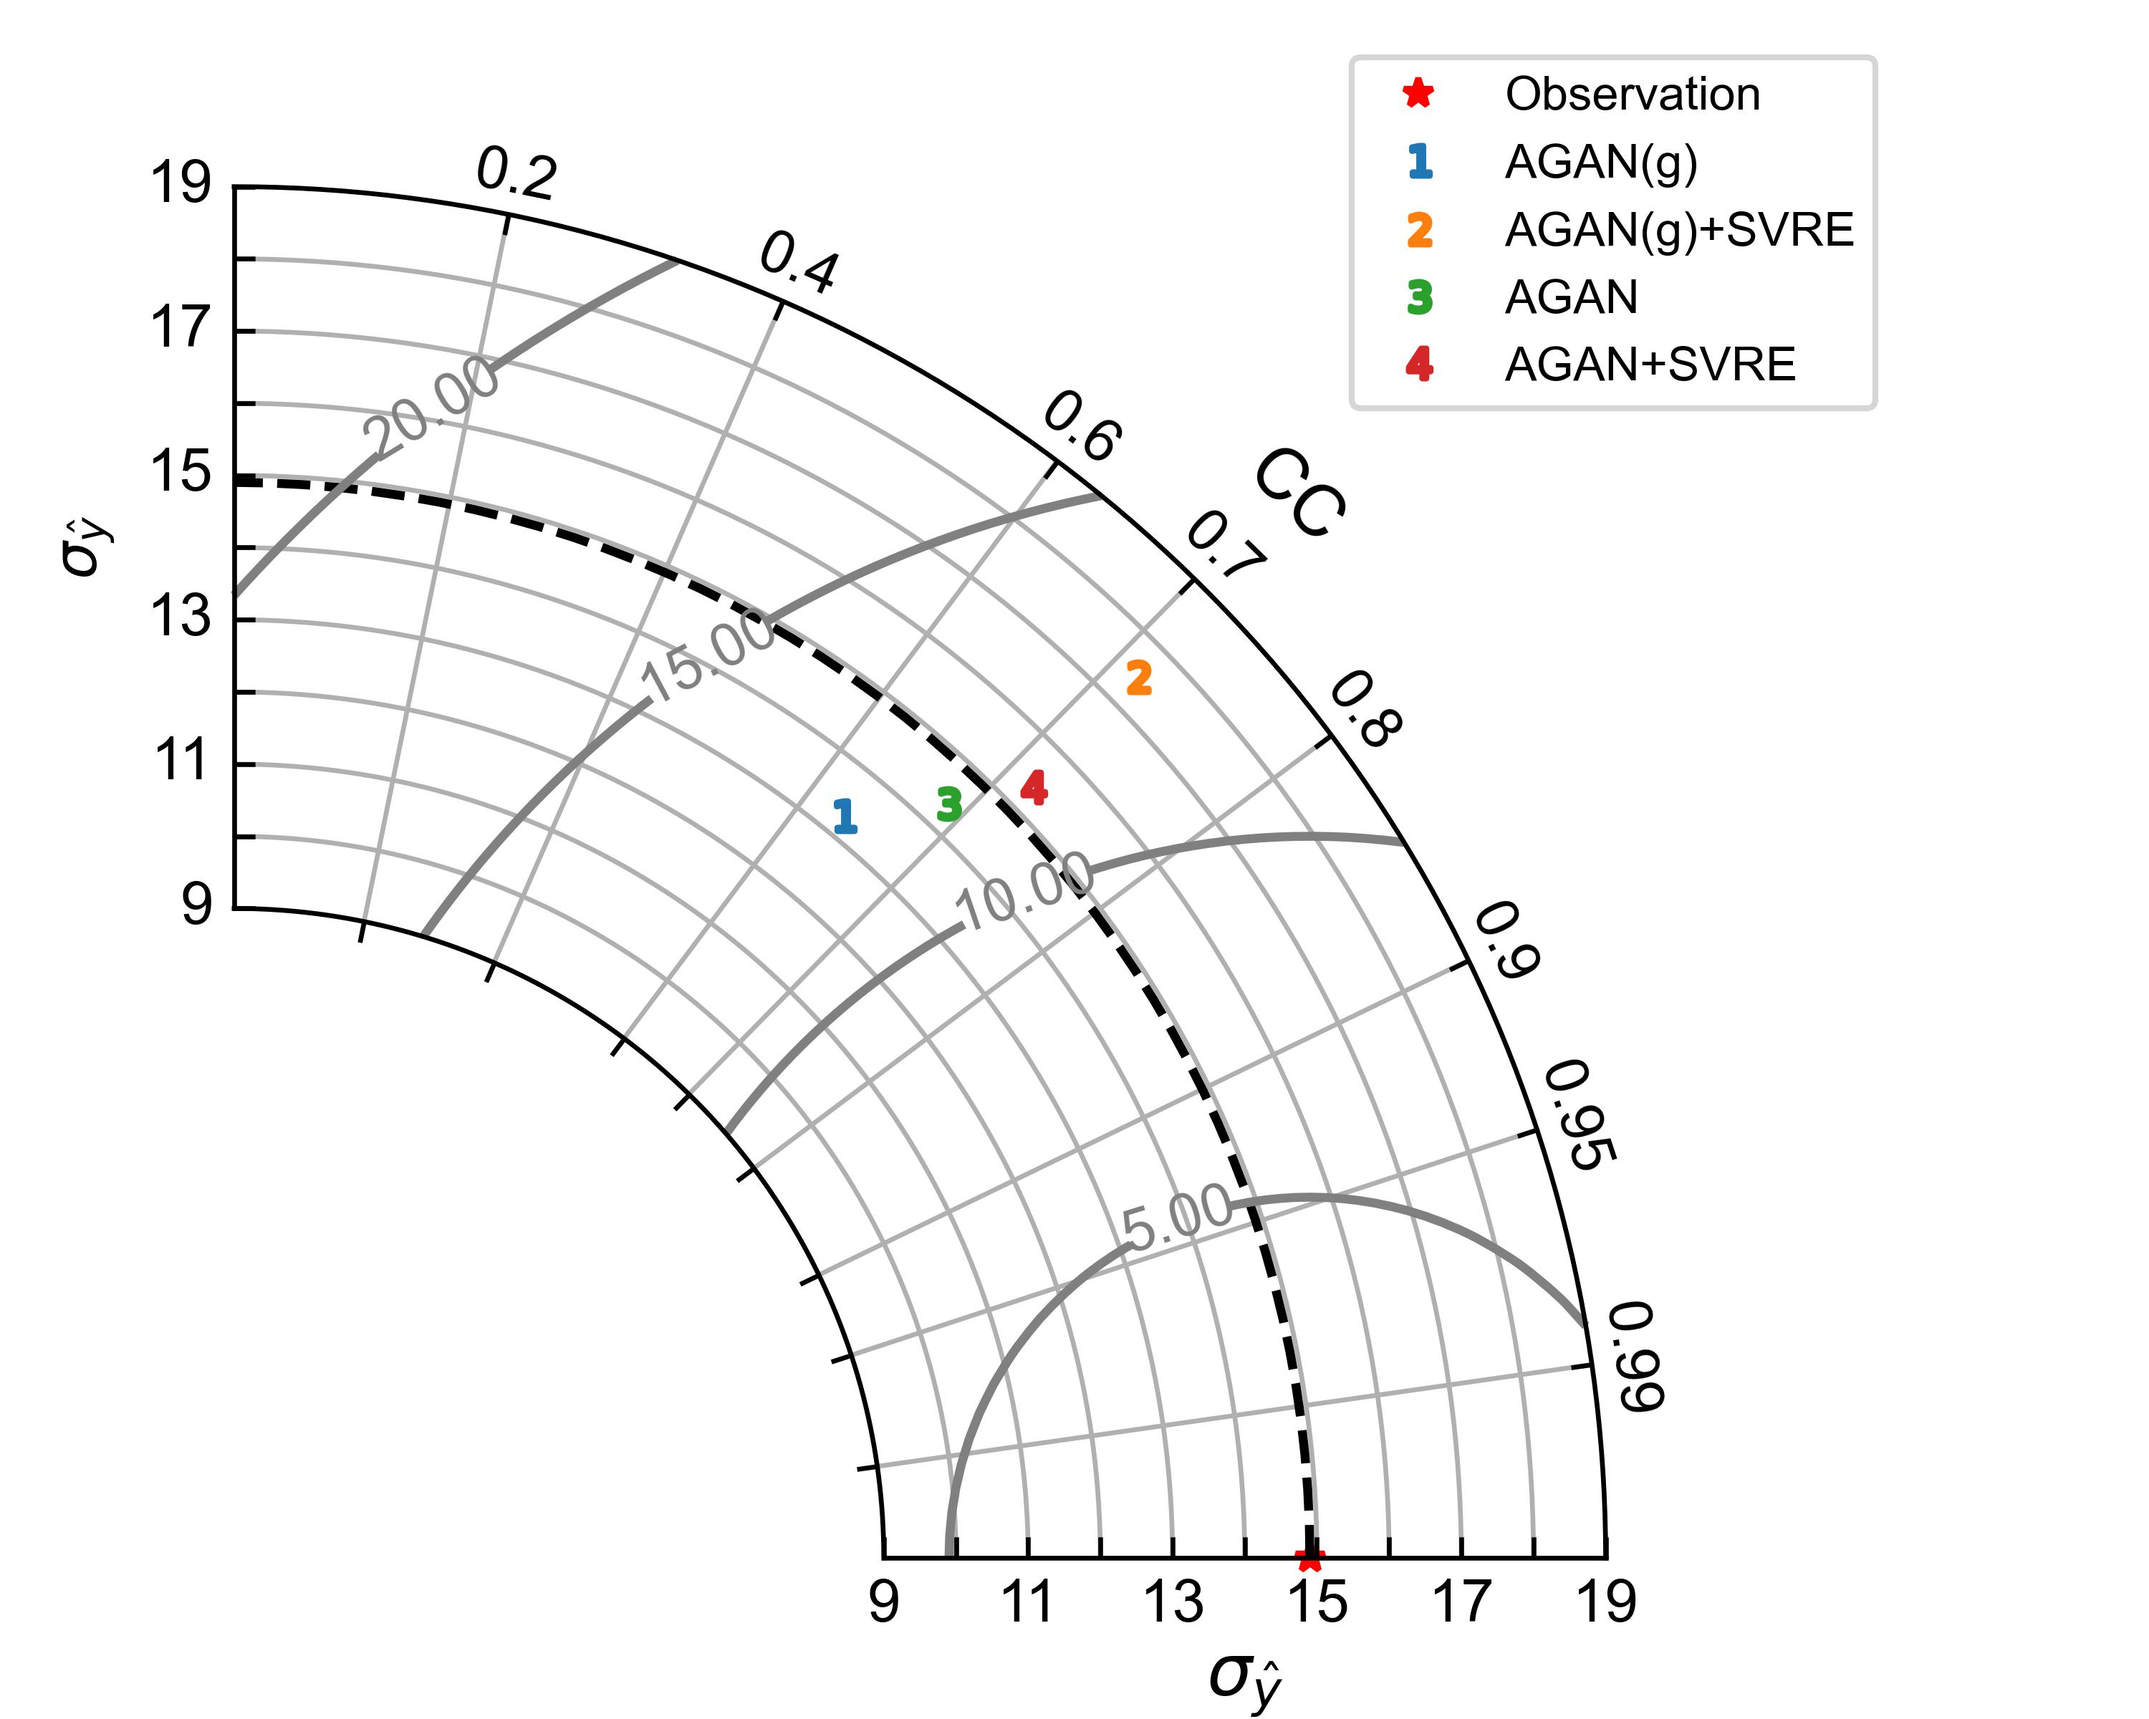
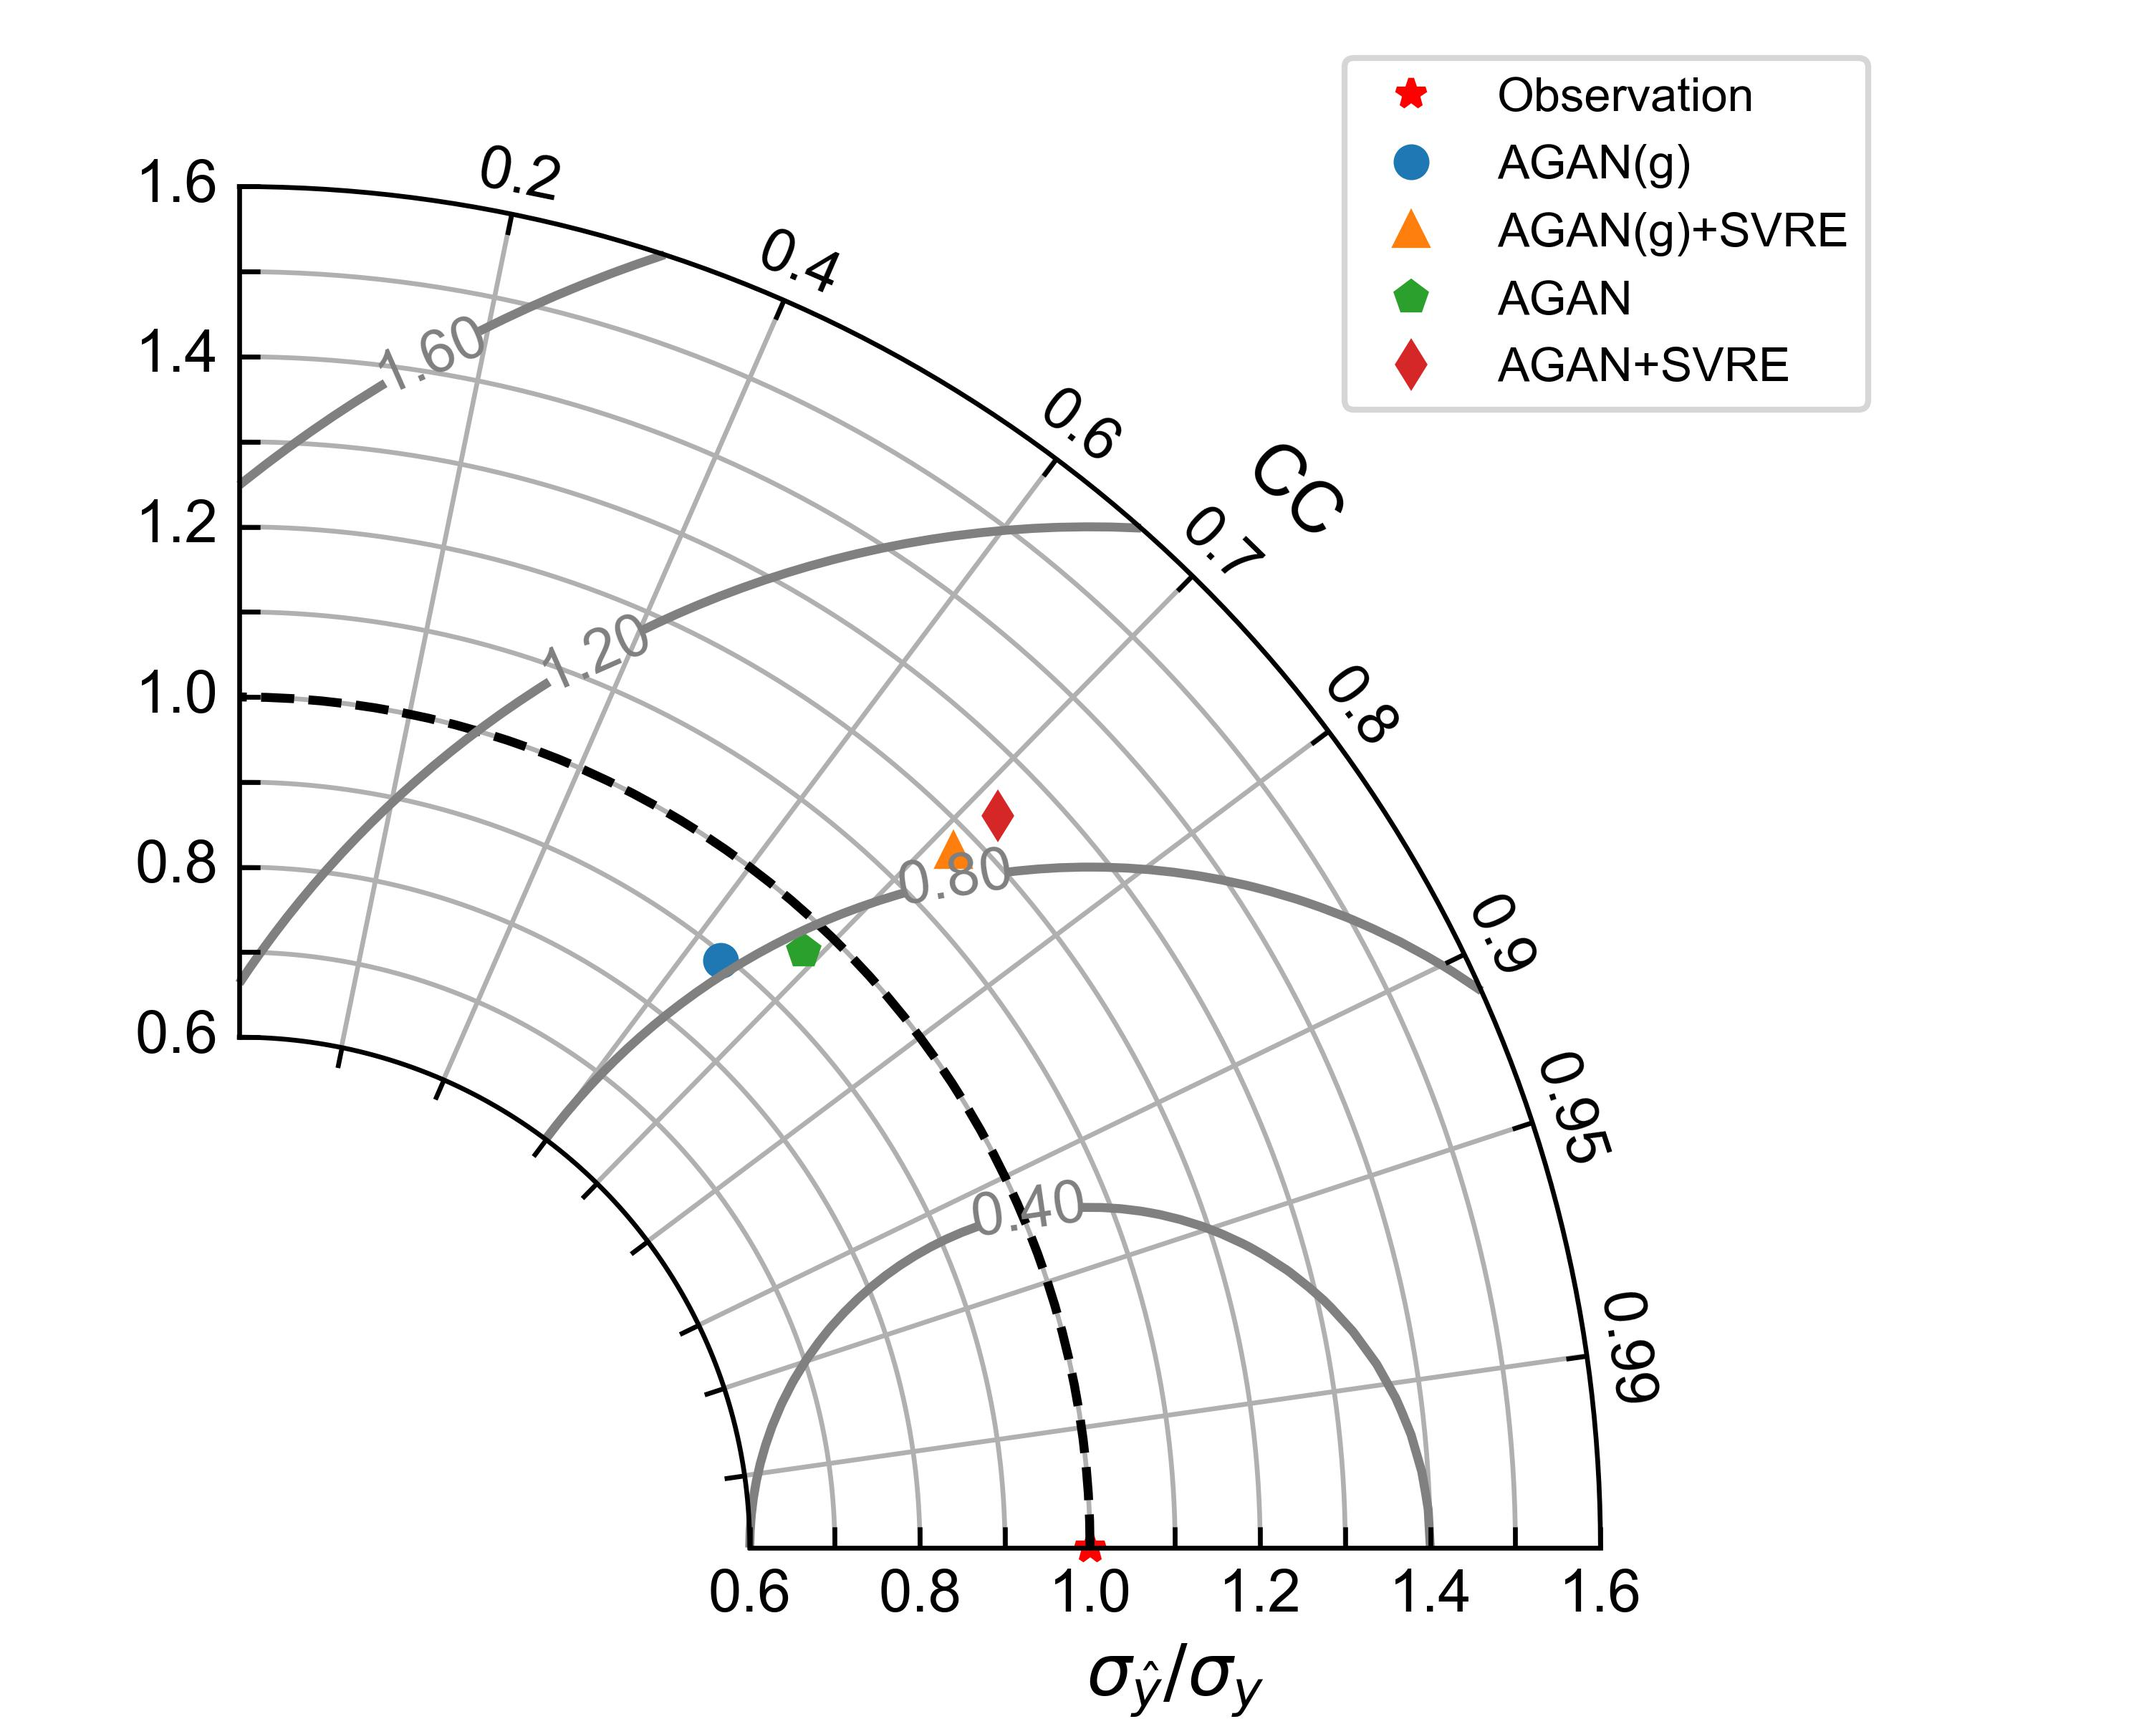
Update Taylor diagram

diff --git a/analysis/plot_talyor_diagram.py b/analysis/plot_talyor_diagram.py
@@ -11,21 +11,21 @@ def plot_taylor_diagram(root: str, paths: list, models: list, target_path: str, 
     fig = plt.figure(figsize=(5, 4), dpi=600)
     truth = torch.load(os.path.join(root, paths[-1], 'truth', 'truth.pt'))
     truth_60min = truth[0, 8, 0]
-    ref_std_60min = torch.std(truth_60min)
-    taylor_diagram_60min = TaylorDiagram(ref_std_60min.numpy(), fig, rect=111, 
+    ref_std_60min = torch.std(truth_60min).numpy()
+    taylor_diagram_60min = TaylorDiagram(ref_std_60min, fig, rect=111, 
                                          std_min=std_range[0], std_max=std_range[1],
-                                         std_label_format='%.0f', num_std=std_num, 
-                                         label='Observation', ylabel_text='$\sigma_{\hat{y}}$')
-
+                                         std_label_format='%.1f', num_std=std_num, 
+                                         label='Observation', normalized=True)
+    markers = ['o', '^', 'p', 'd']
     for i, path in enumerate(paths):
         pred = torch.load(os.path.join(root, path, 'pred', 'pred.pt'))
         pred_60min = pred[0, 8, 0]
-        stddev_60min = torch.std(pred_60min)
-        corrcoef_60min = torch.corrcoef(torch.stack([truth_60min.flatten(), pred_60min.flatten()]))[0, 1]
-        taylor_diagram_60min.add_sample(stddev_60min.numpy(), corrcoef_60min.numpy(),
-                                        marker='$%d$' % (i + 1), ms=5, ls='',
+        stddev_60min = torch.std(pred_60min).numpy()
+        corrcoef_60min = torch.corrcoef(torch.stack([truth_60min.flatten(), pred_60min.flatten()]))[0, 1].numpy()
+        taylor_diagram_60min.add_sample(stddev_60min / ref_std_60min, corrcoef_60min, 
+                                        ms=5, ls='', marker=markers[i],
                                         mfc=colors[i], mec=colors[i], label=models[i])
-    
+
     # Add grid
     taylor_diagram_60min.add_grid()
 
@@ -48,16 +48,16 @@ if __name__ == '__main__':
     plot_taylor_diagram('results', 
                         ['AttnUNet/sample_0', 'AttnUNet_SVRE/sample_0', 'AttnUNet_GA/sample_0', 'AttnUNet_GASVRE/sample_0'], 
                         ['AGAN(g)', 'AGAN(g)+SVRE', 'AGAN', 'AGAN+SVRE'], 
-                        'img/taylor_ablation_sample_0.jpg', std_range=[9, 19], std_num=6, colors=colors.colors)
+                        'img/taylor_ablation_sample_0.jpg', std_range=[0.6, 1.6], std_num=6, colors=colors.colors)
     plot_taylor_diagram('results',
                         ['AttnUNet/sample_1', 'AttnUNet_SVRE/sample_1', 'AttnUNet_GA/sample_1', 'AttnUNet_GASVRE/sample_1'],
                         ['AGAN(g)', 'AGAN(g)+SVRE', 'AGAN', 'AGAN+SVRE'],
-                        'img/taylor_ablation_sample_1.jpg', std_range=[9, 19], std_num=6, colors=colors.colors)
+                        'img/taylor_ablation_sample_1.jpg', std_range=[0.6, 1.6], std_num=6, colors=colors.colors)
     plot_taylor_diagram('results', 
                         ['PySTEPS/sample_0', 'SmaAt_UNet/sample_0', 'MotionRNN/sample_0', 'AttnUNet_GASVRE/sample_0'], 
                         ['PySTEPS', 'SmaAt-UNet', 'MotionRNN', 'AGAN+SVRE'],
-                        'img/taylor_comparison_sample_0.jpg', std_range=[9, 23], std_num=8, colors=colors.colors)
+                        'img/taylor_comparison_sample_0.jpg', std_range=[0.6, 1.6], std_num=6, colors=colors.colors)
     plot_taylor_diagram('results',
                         ['PySTEPS/sample_1', 'SmaAt_UNet/sample_1', 'MotionRNN/sample_1', 'AttnUNet_GASVRE/sample_1'],
                         ['PySTEPS', 'SmaAt-UNet', 'MotionRNN', 'AGAN+SVRE'],
-                        'img/taylor_comparison_sample_1.jpg', std_range=[9, 23], std_num=8, colors=colors.colors)
+                        'img/taylor_comparison_sample_1.jpg', std_range=[0.6, 1.6], std_num=6, colors=colors.colors)

diff --git a/analysis/taylor_diagram.py b/analysis/taylor_diagram.py
@@ -53,11 +53,11 @@ class TaylorDiagram(object):
 
         # ------std axis extent (in units of reference stddev)
         if std_min is None or std_max is None:
-            self.std_min = self.std_ref * std_range[0] / self.std_ratio
-            self.std_max = self.std_ref * std_range[1] / self.std_ratio
+            self.std_min = self.std_ref * std_range[0]
+            self.std_max = self.std_ref * std_range[1]
         else:
-            self.std_min = std_min / self.std_ratio
-            self.std_max = std_max / self.std_ratio
+            self.std_min = std_min
+            self.std_max = std_max
 
         std_locs = np.linspace(self.std_min, self.std_max, num_std)
         std_labels = ['{0}'.format(std_label_format) % v for v in std_locs]
